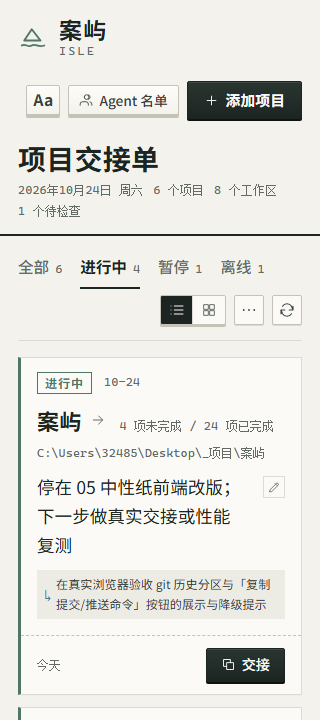
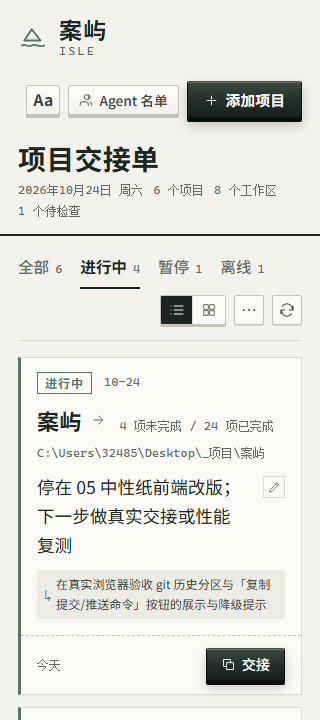
fix(web): 加强墨色主按钮的立体感

Changed region(s): [[0.5938, 0.1528, 0.9375, 0.1833], [0.6562, 0.9472, 0.875, 0.9778]]

diff --git a/src/App.module.css b/src/App.module.css
@@ -1582,8 +1582,14 @@
 
 /* ── 纸键：硬边、上浮、按下 ── */
 .primary, .primaryButton, .handoffButton {
-  background-image: linear-gradient(180deg, #2a3530, #1d2522);
-  box-shadow: 0 2px 0 #0d1411, inset 0 1px 0 rgba(255, 255, 255, .10);
+  background-image: linear-gradient(180deg, #3b4a41 0%, #25312b 48%, #161f1b 100%);
+  border-color: #0b110e;
+  border-top-color: #46554c;
+  box-shadow:
+    0 3px 0 #0a0f0c,
+    0 6px 12px rgba(16, 23, 20, .22),
+    inset 0 1px 0 rgba(255, 255, 255, .22),
+    inset 0 -1px 0 rgba(0, 0, 0, .45);
 }
 .secondary, .quietButton, .smallButton, .miniButton, .transferTabs > button {
   background-image: linear-gradient(180deg, #fdfcf8, #f3f2ec);
@@ -1593,7 +1599,16 @@
   background-image: linear-gradient(180deg, #fdf8f5, #f7ece6);
   box-shadow: 0 3px 0 #d8b9ad, inset 0 1px 0 #fff;
 }
-.dangerButton { background-image: linear-gradient(180deg, #b45236, #a94a2f); box-shadow: 0 2px 0 #6d2f1e, inset 0 1px 0 rgba(255, 255, 255, .10); }
+.dangerButton {
+  background-image: linear-gradient(180deg, #c15c3f, #a94a2f 55%, #8f3b24);
+  border-color: #5b2618;
+  border-top-color: #d0785e;
+  box-shadow:
+    0 3px 0 #5b2618,
+    0 6px 12px rgba(169, 74, 47, .22),
+    inset 0 1px 0 rgba(255, 255, 255, .20),
+    inset 0 -1px 0 rgba(0, 0, 0, .35);
+}
 .iconButtonBordered { box-shadow: 0 1px 0 var(--line); }
 .primary:disabled, .primaryButton:disabled, .handoffButton:disabled,
 .secondary:disabled, .quietButton:disabled, .smallButton:disabled, .miniButton:disabled,
@@ -1607,7 +1622,11 @@
 }
 .primary:active:not(:disabled), .primaryButton:active:not(:disabled), .handoffButton:active:not(:disabled) {
   transform: translateY(1px);
-  box-shadow: 0 0 0 #0d1411;
+  box-shadow:
+    0 1px 0 #0a0f0c,
+    0 2px 4px rgba(16, 23, 20, .18),
+    inset 0 2px 5px rgba(0, 0, 0, .45),
+    inset 0 1px 0 rgba(255, 255, 255, .08);
 }
 .secondary:active:not(:disabled), .quietButton:active:not(:disabled), .smallButton:active:not(:disabled),
 .miniButton:active:not(:disabled), .transferTabs > button:active:not(:disabled) {
@@ -1615,13 +1634,26 @@
   box-shadow: 0 0 0 var(--line-dark);
 }
 .quietDanger:active:not(:disabled) { box-shadow: 0 0 0 #d8b9ad; }
-.dangerButton:active:not(:disabled) { box-shadow: 0 0 0 #6d2f1e; }
+.dangerButton:active:not(:disabled) {
+  box-shadow:
+    0 1px 0 #5b2618,
+    0 2px 4px rgba(169, 74, 47, .18),
+    inset 0 2px 5px rgba(0, 0, 0, .38),
+    inset 0 1px 0 rgba(255, 255, 255, .08);
+}
 .iconButtonBordered:active:not(:disabled) { transform: translateY(1px); box-shadow: 0 0 0 var(--line); }
 
 @media (hover: hover) {
   .primary:hover:not(:disabled), .primaryButton:hover:not(:disabled), .handoffButton:hover:not(:disabled) {
+    background-image: linear-gradient(180deg, #45544b 0%, #2b3831 48%, #1a241f 100%);
+    border-color: #0b110e;
+    border-top-color: #53645a;
     transform: translateY(-1px);
-    box-shadow: 0 3px 0 #0d1411, 0 7px 15px rgba(29, 37, 34, .14);
+    box-shadow:
+      0 4px 0 #0a0f0c,
+      0 10px 20px rgba(16, 23, 20, .28),
+      inset 0 1px 0 rgba(255, 255, 255, .24),
+      inset 0 -1px 0 rgba(0, 0, 0, .45);
   }
   .secondary:hover:not(:disabled), .quietButton:hover:not(:disabled), .smallButton:hover:not(:disabled),
   .miniButton:hover:not(:disabled), .transferTabs > button:hover:not(:disabled) {
@@ -1629,7 +1661,16 @@
     box-shadow: 0 4px 0 var(--line-dark), 0 6px 13px rgba(29, 37, 34, .08);
   }
   .quietDanger:hover:not(:disabled) { box-shadow: 0 4px 0 #d8b9ad, 0 6px 13px rgba(169, 74, 47, .10); }
-  .dangerButton:hover:not(:disabled) { box-shadow: 0 3px 0 #6d2f1e, 0 7px 15px rgba(169, 74, 47, .16); }
+  .dangerButton:hover:not(:disabled) {
+    background-image: linear-gradient(180deg, #c96648, #ae4d31 55%, #933d26);
+    border-color: #5b2618;
+    border-top-color: #d9856c;
+    box-shadow:
+      0 4px 0 #5b2618,
+      0 10px 20px rgba(169, 74, 47, .28),
+      inset 0 1px 0 rgba(255, 255, 255, .22),
+      inset 0 -1px 0 rgba(0, 0, 0, .35);
+  }
   .iconButtonBordered:hover:not(:disabled) { transform: translateY(-1px); }
   .iconButtonBordered:hover:not(:disabled) svg { transform: rotate(180deg); }
   .iconButtonBordered svg { transition: transform var(--motion-slow) var(--ease-out); }

diff --git a/.design/direction-approved.md b/.design/direction-approved.md
@@ -218,6 +218,7 @@
 - 卡片视图复用交接单数据与动作：桌面两列，`<=1100px` 单列，移动端单列；状态章横排、下一步、子工作区、底部交接动作完整保留。
 - 详情页「交接摘要 / 工作留痕 / Git 历史」默认收起；标题右侧用 chevron 图标展开/收起，操作按钮在收起时隐藏。
 - 摘要手动编辑时禁用收起；展开内容带短淡入；留痕提示在收起时仍可见。
+- 主按钮加强立体感：顶部浅色棱边、深色 3px 硬边、软投影和按下内阴影；危险按钮同步。
 - 全部新按钮都有 `aria-label` / `title`；菜单和分区使用 `aria-expanded` / `aria-controls` / `aria-checked`；动效在 reduced-motion 下关闭。
 
 验证：
@@ -227,4 +228,4 @@
 - 菜单宽度 220px；过滤后 6 → 1 条，标签计数同步；Escape 关闭后焦点回到触发按钮；红点出现/消失；
 - 详情三区默认无内容且 `aria-expanded=false`；展开后摘要操作出现、留痕 10 条、Git 36 条；
 - 无控制台错误；可点目标无小于 24px。
-- 截图：`screenshots/production-toolbar-1440.png`、`production-view-cards-1440.png`、`production-view-cards-1024.png`、`production-view-cards-390.png`、`production-view-cards-320.png`、`production-more-menu-1440.png`、`production-filter-stale-1440.png`、`production-collapsed-1440.png`、`production-detail-expanded-1440.png`。
+- 截图：`screenshots/production-toolbar-1440.png`、`production-header-actions-1440.png`、`production-primary-actions-1440.png`、`production-view-cards-1440.png`、`production-view-cards-1024.png`、`production-view-cards-390.png`、`production-view-cards-320.png`、`production-more-menu-1440.png`、`production-filter-stale-1440.png`、`production-collapsed-1440.png`、`production-detail-expanded-1440.png`。

diff --git a/.design/README.md b/.design/README.md
@@ -23,6 +23,8 @@
 
 **2026-10-24 工具栏、卡片视图与折叠：** 「只看久未更新」移入 `···` 菜单；右侧新增列表/卡片图标切换（localStorage `isle.project-view`）；详情摘要/留痕/Git 默认收起，用 chevron 图标展开。截图见 `screenshots/production-view-cards-1440.png`、`production-more-menu-1440.png`、`production-collapsed-1440.png`。
 
+**2026-10-24 主按钮立体感：** 墨色主按钮补顶部棱边、3px 硬边、软投影与按下内阴影；截图见 `screenshots/production-header-actions-1440.png`、`production-primary-actions-1440.png`。
+
 打开 `index.html` 看选择页，或直接打开下面三个单文件。每个文件都可以切换项目、打开“交接”弹窗；其余未接入的流程只给诚实提示。
 
 ## 三个方向
